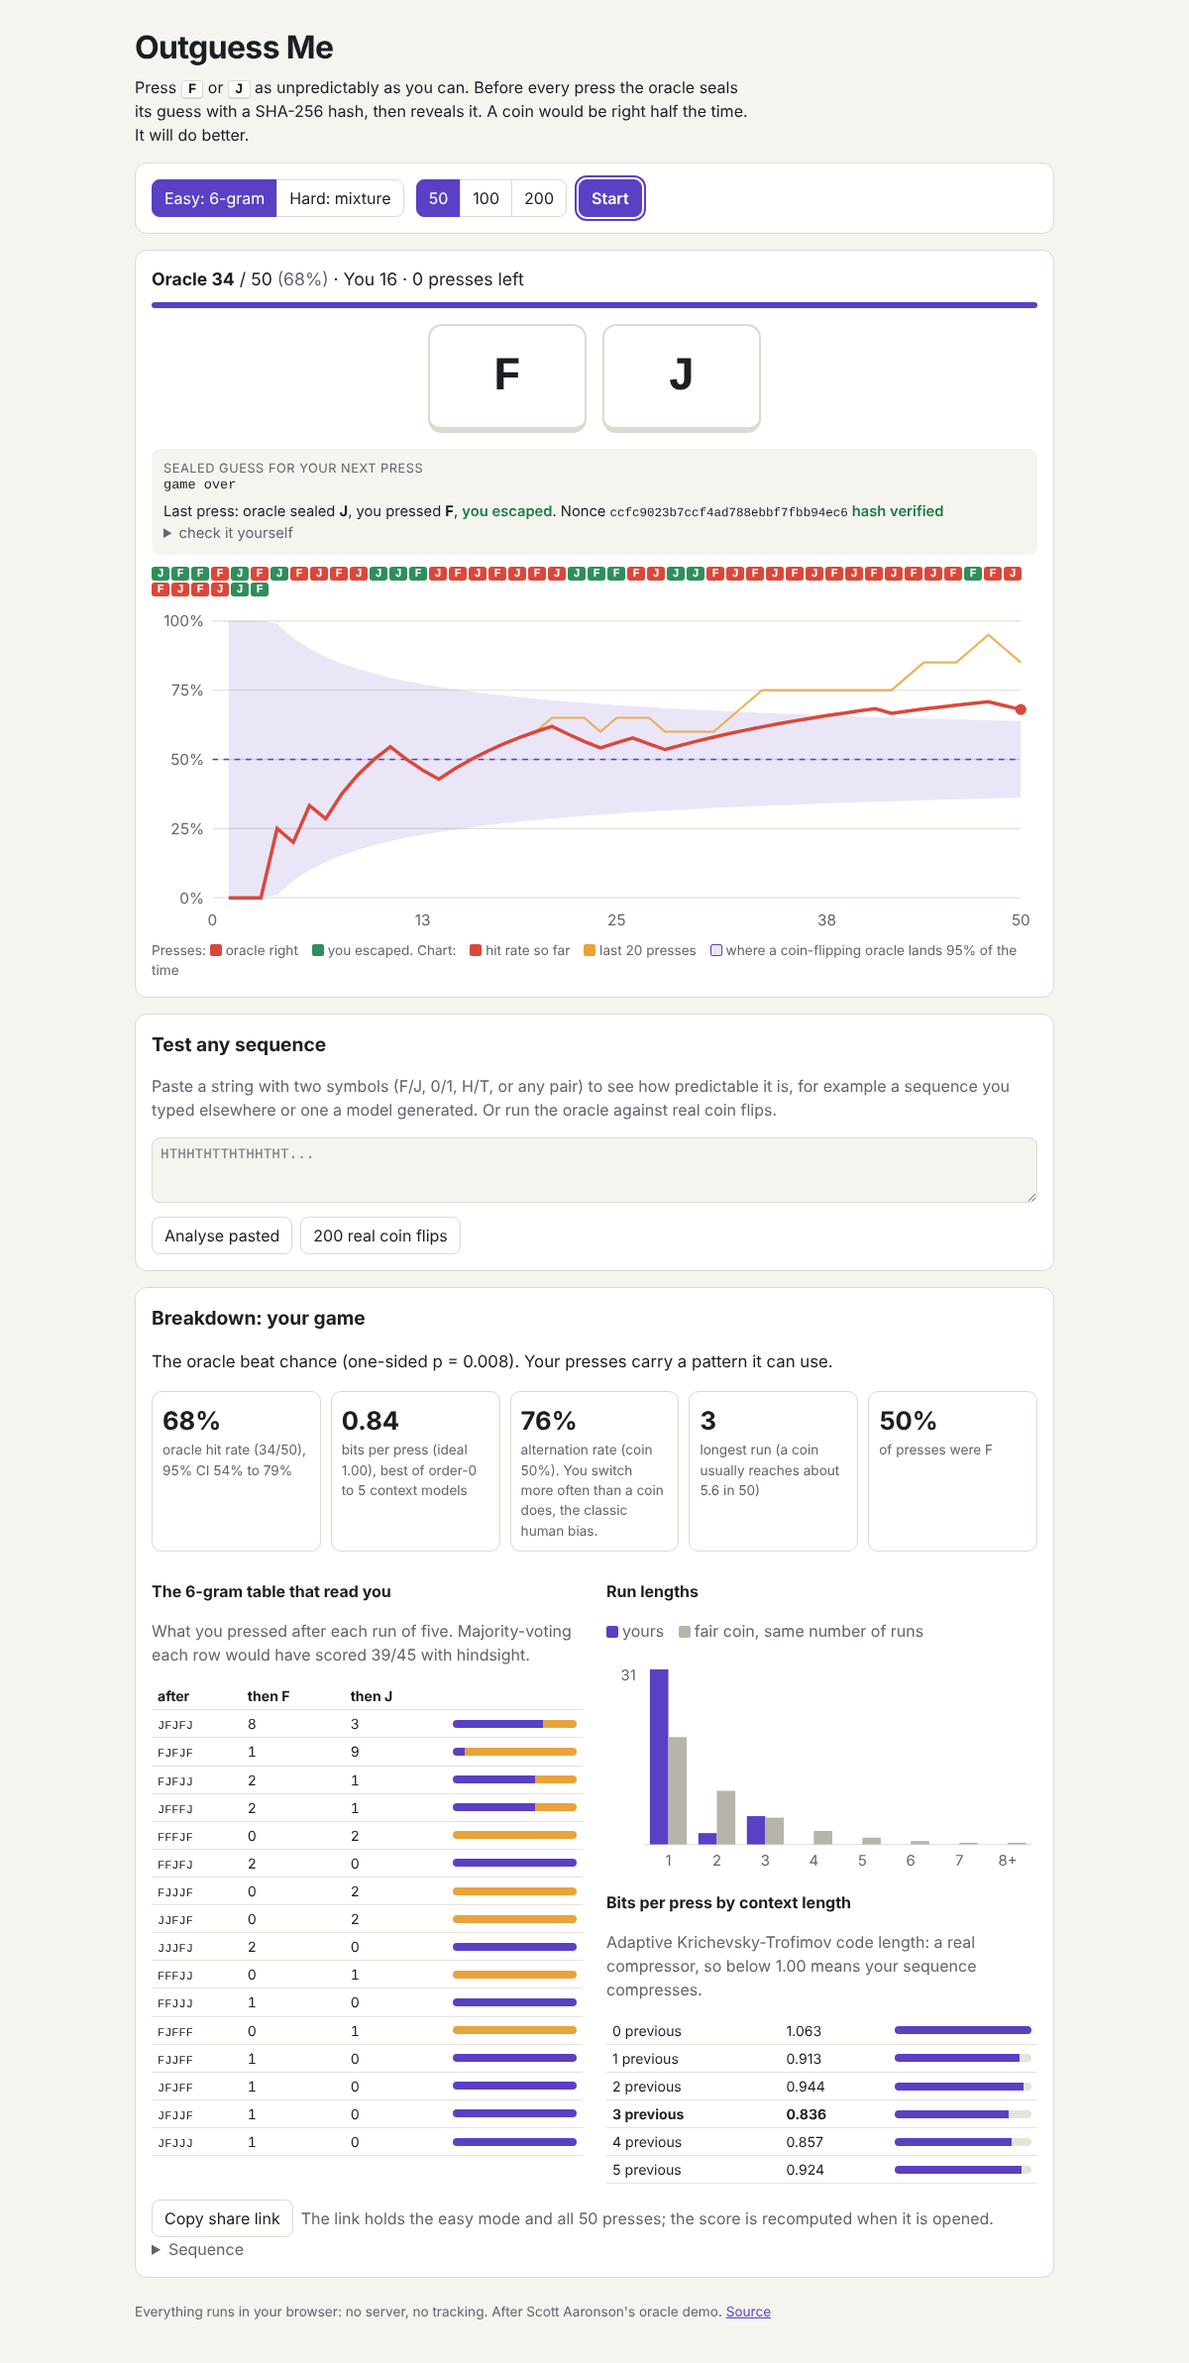
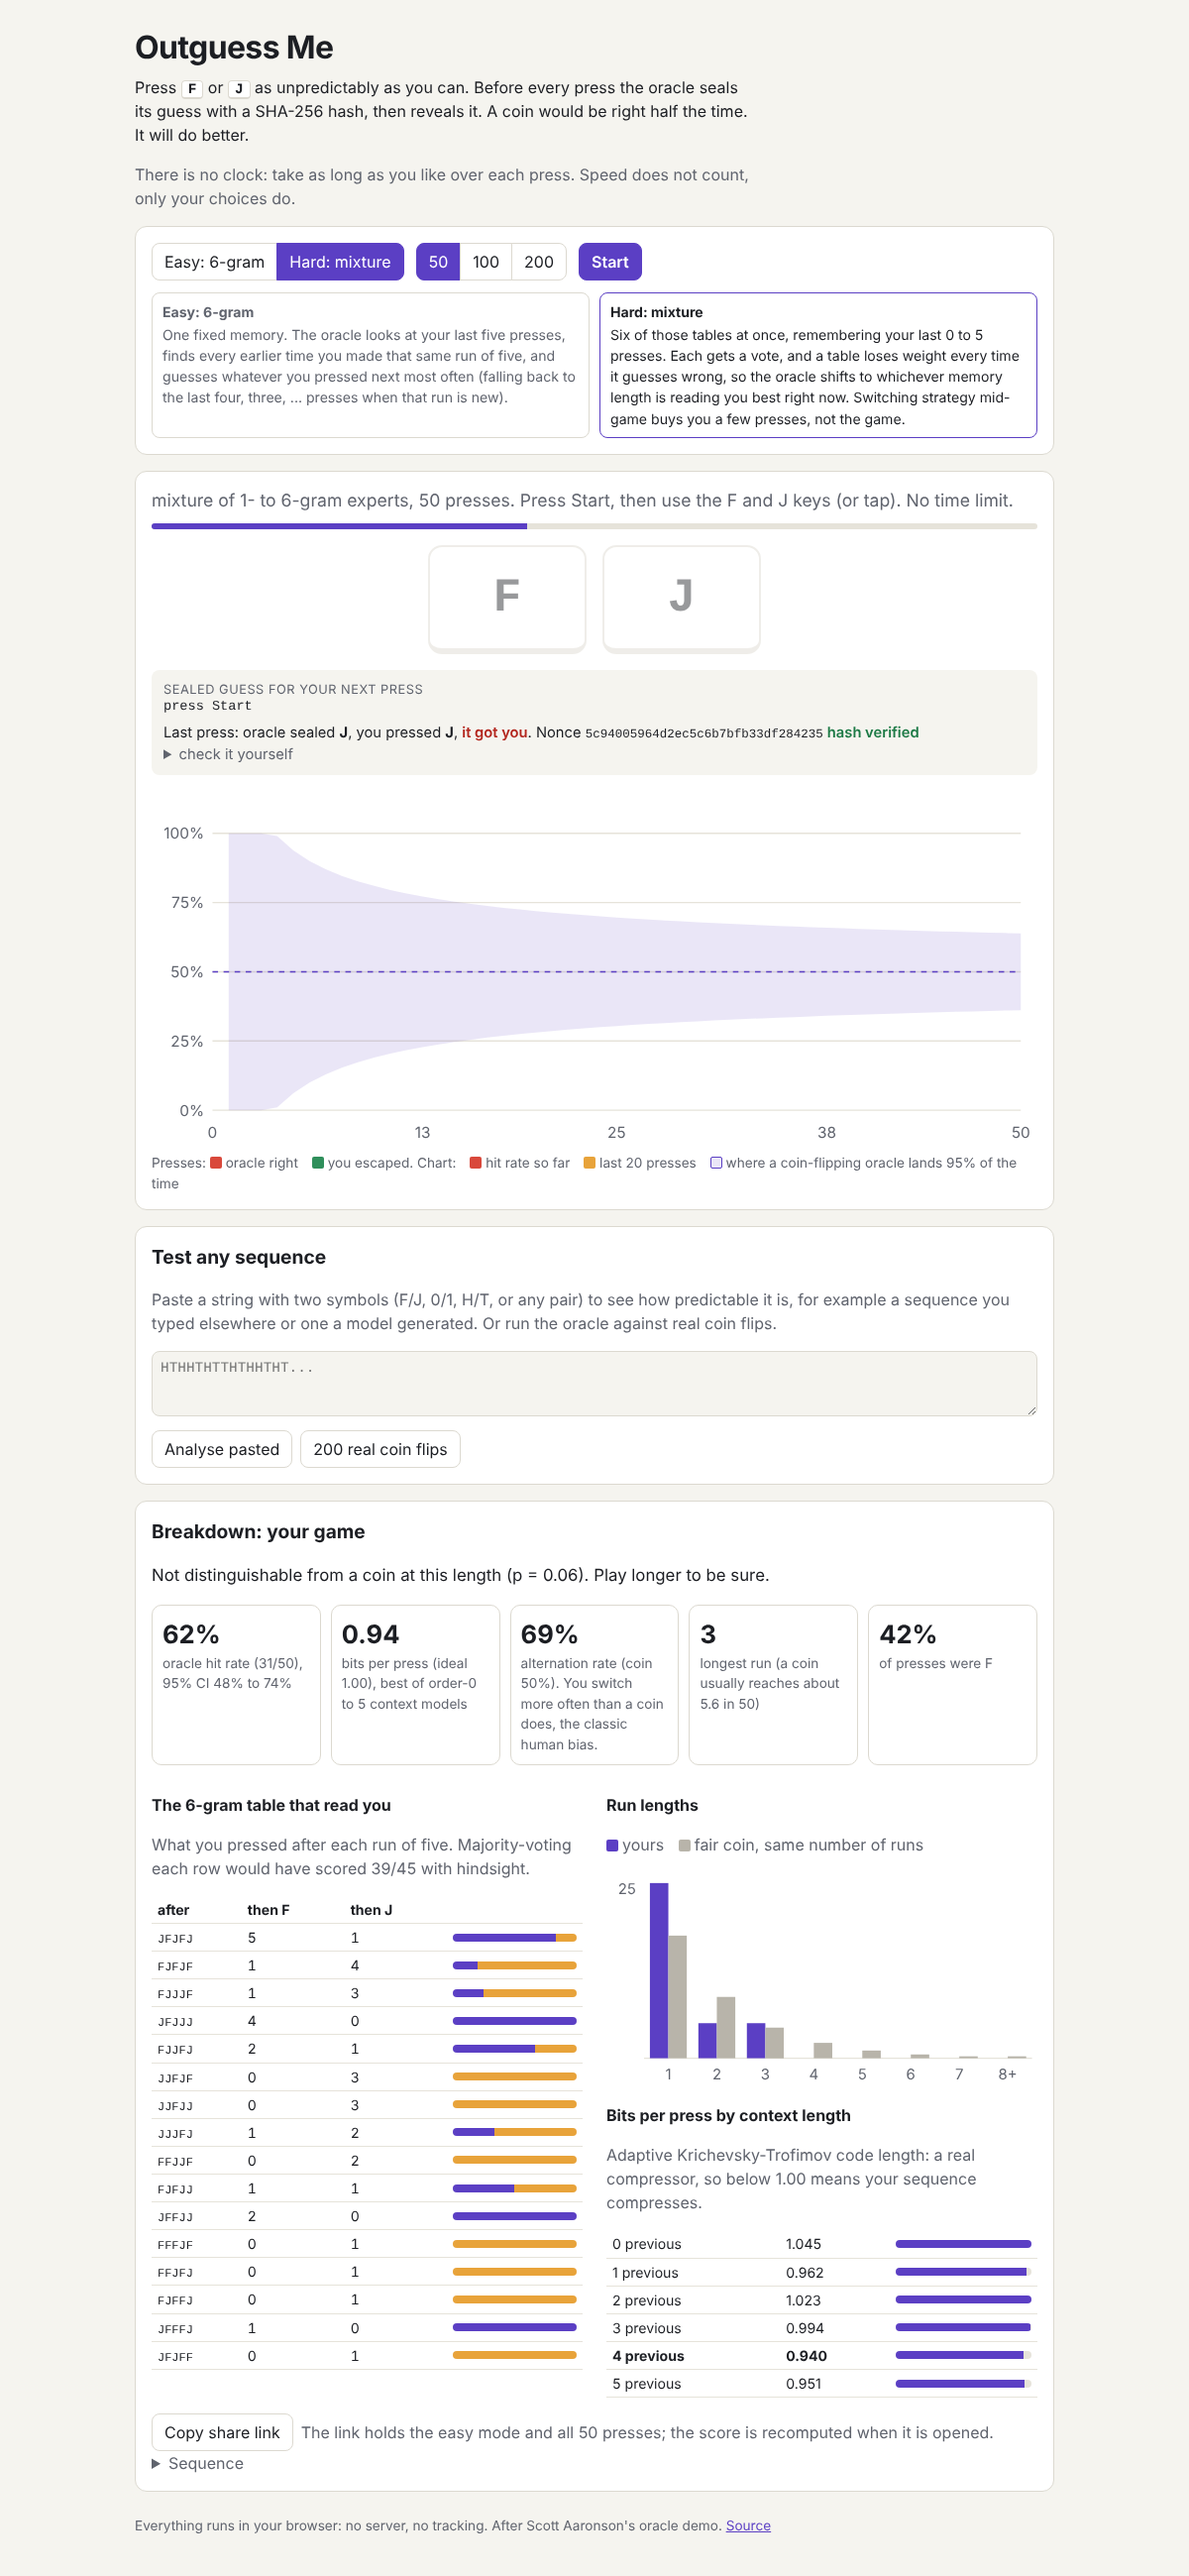
feat(outguess-me): require Start, default to 50 presses, explain modes
Keys pressed with no game running now nudge the Start button instead of
starting a new game, so extra presses after the last one cannot wipe the
breakdown. Default length is 50, the page says speed does not count, and
the settings card explains how the 6-gram and mixture oracles differ.

Claude-Session: https://claude.ai/code/session_018aecaogdyYTzQSWeW94mYv

Changed region(s): [[0.0925, 0.0, 0.8633, 0.9929], [0.74, 0.5895, 0.8017, 0.6516], [0.8325, 0.7757, 0.8633, 0.8067]]

diff --git a/outguess-me/src/ui/app.ts b/outguess-me/src/ui/app.ts
@@ -33,13 +33,14 @@ function verdict(s: Summary): string {
 }
 
 export function mountApp(root: HTMLElement): void {
-  const state: State = { mode: 'easy', length: 100, session: null, lastRound: null, lastVerified: null, analysed: null };
+  const state: State = { mode: 'easy', length: 50, session: null, lastRound: null, lastVerified: null, analysed: null };
 
   root.innerHTML = `
     <header class="top">
       <h1>Outguess Me</h1>
       <p class="lede">Press <kbd>F</kbd> or <kbd>J</kbd> as unpredictably as you can. Before every press the oracle
       seals its guess with a SHA-256 hash, then reveals it. A coin would be right half the time. It will do better.</p>
+      <p class="lede muted">There is no clock: take as long as you like over each press. Speed does not count, only your choices do.</p>
     </header>
     <section class="card controls" aria-label="Game settings">
       <div class="seg" role="radiogroup" aria-label="Oracle">
@@ -52,6 +53,10 @@ export function mountApp(root: HTMLElement): void {
         <button data-len="200" role="radio">200</button>
       </div>
       <button id="start" class="primary">Start</button>
+      <dl class="modes">
+        <div data-mode-help="easy"><dt>Easy: 6-gram</dt><dd>One fixed memory. The oracle looks at your last five presses, finds every earlier time you made that same run of five, and guesses whatever you pressed next most often (falling back to the last four, three, ... presses when that run is new).</dd></div>
+        <div data-mode-help="hard"><dt>Hard: mixture</dt><dd>Six of those tables at once, remembering your last 0 to 5 presses. Each gets a vote, and a table loses weight every time it guesses wrong, so the oracle shifts to whichever memory length is reading you best right now. Switching strategy mid-game buys you a few presses, not the game.</dd></div>
+      </dl>
     </section>
     <section class="card play" aria-label="Play">
       <div class="score" id="score" aria-live="polite"></div>
@@ -92,10 +97,12 @@ export function mountApp(root: HTMLElement): void {
   const chart = $('#chart');
   const results = $('#results');
   const pasteError = $('#paste-error');
+  const startButton = $<HTMLButtonElement>('#start');
 
   function syncControls(): void {
     root.querySelectorAll<HTMLButtonElement>('[data-mode]').forEach((b) => b.setAttribute('aria-checked', String(b.dataset.mode === state.mode)));
     root.querySelectorAll<HTMLButtonElement>('[data-len]').forEach((b) => b.setAttribute('aria-checked', String(Number(b.dataset.len) === state.length)));
+    root.querySelectorAll<HTMLElement>('[data-mode-help]').forEach((d) => d.classList.toggle('active', d.dataset.modeHelp === state.mode));
   }
 
   function renderPlay(): void {
@@ -105,7 +112,11 @@ export function mountApp(root: HTMLElement): void {
     const target = s?.target ?? state.length;
     score.innerHTML = s
       ? `<strong>Oracle ${hits}</strong> / ${rounds.length} <span class="muted">(${rounds.length ? pct(hits / rounds.length) : '-'})</span> · You ${rounds.length - hits} · ${target - rounds.length} presses left`
-      : `<span class="muted">${modeLabel(state.mode)}, ${state.length} presses. Press Start, then use the F and J keys (or tap).</span>`;
+      : `<span class="muted">${modeLabel(state.mode)}, ${state.length} presses. Press Start, then use the F and J keys (or tap). No time limit.</span>`;
+    if (s?.done) score.innerHTML += ` <span class="muted">Game over: the breakdown is below. Press Start for a new game.</span>`;
+    const playing = !!s && !s.done;
+    root.querySelectorAll<HTMLButtonElement>('.key').forEach((k) => k.classList.toggle('idle', !playing));
+    startButton.textContent = s ? 'New game' : 'Start';
     bar.style.width = pct(rounds.length / target, 1);
     const pending = s?.pendingCommitment;
     hash.textContent = s ? (s.done ? 'game over' : (pending?.hash ?? 'sealing...')) : 'press Start';
@@ -265,6 +276,13 @@ export function mountApp(root: HTMLElement): void {
     void seal();
   }
 
+  /** A key press with no game running: point at Start instead of starting one. */
+  function nudge(): void {
+    startButton.classList.remove('nudge');
+    void startButton.offsetWidth;
+    startButton.classList.add('nudge');
+  }
+
   function flash(bit: Bit, caught: boolean): void {
     const key = root.querySelector<HTMLElement>(`.key[data-bit="${bit}"]`);
     if (!key) return;
@@ -296,7 +314,7 @@ export function mountApp(root: HTMLElement): void {
   $('#start').addEventListener('click', start);
   root.querySelectorAll<HTMLButtonElement>('.key').forEach((b) =>
     b.addEventListener('click', () => {
-      if (!state.session || state.session.done) start();
+      if (!state.session || state.session.done) nudge();
       else press(Number(b.dataset.bit) as Bit);
     }),
   );
@@ -306,7 +324,7 @@ export function mountApp(root: HTMLElement): void {
     const k = e.key.toLowerCase();
     if (k === 'f' || k === 'j') {
       e.preventDefault();
-      if (!state.session || state.session.done) start();
+      if (!state.session || state.session.done) nudge();
       else press(k === 'f' ? 0 : 1);
     }
   });

diff --git a/outguess-me/src/ui/styles.css b/outguess-me/src/ui/styles.css
@@ -437,3 +437,56 @@ footer a {
 .sw.misssw {
   background: var(--miss);
 }
+
+.modes {
+  flex-basis: 100%;
+  display: grid;
+  grid-template-columns: 1fr 1fr;
+  gap: 10px;
+  margin: 0;
+  font-size: 0.88rem;
+}
+@media (max-width: 720px) {
+  .modes {
+    grid-template-columns: 1fr;
+  }
+  .modes > div:not(.active) {
+    display: none;
+  }
+}
+.modes > div {
+  border: 1px solid var(--border);
+  border-radius: 8px;
+  padding: 8px 10px;
+  color: var(--muted);
+}
+.modes > div.active {
+  border-color: var(--accent);
+  color: var(--fg);
+}
+.modes dt {
+  font-weight: 700;
+}
+.modes dd {
+  margin: 2px 0 0;
+}
+.key.idle {
+  opacity: 0.45;
+}
+#start.nudge {
+  animation: nudge 0.6s;
+}
+@keyframes nudge {
+  0%,
+  100% {
+    transform: none;
+  }
+  20%,
+  60% {
+    transform: translateX(-4px);
+  }
+  40%,
+  80% {
+    transform: translateX(4px);
+  }
+}

diff --git a/outguess-me/README.md b/outguess-me/README.md
@@ -15,11 +15,16 @@ A take on Scott Aaronson's classic "oracle" demo, prompted by the
 
 ## What you can do
 
-- **Play** 50, 100 or 200 presses with the keyboard or the on-screen keys.
+- **Play** 50 (default), 100 or 200 presses with the keyboard or the on-screen
+  keys. A game only begins when you press Start, and keys pressed before Start
+  or after the last press are ignored, so the breakdown is never wiped by an
+  accidental extra press. There is no clock: speed does not count.
   The live view shows the score, the sealed hash for the next press, the last
   reveal with a "check it yourself" recipe, a strip of recent presses coloured
   by who won, and a chart of the oracle's hit rate (overall and last 20)
   against the band a coin-flipping oracle stays inside 95% of the time.
+- The settings card explains the two oracles in plain words, next to the
+  mode switch.
 - **Easy mode** is Aaronson's oracle: a 6-gram table (the five previous presses
   predict the sixth), backing off to shorter contexts while a context is unseen
   or tied, and betting on a switch when it has nothing to go on.
